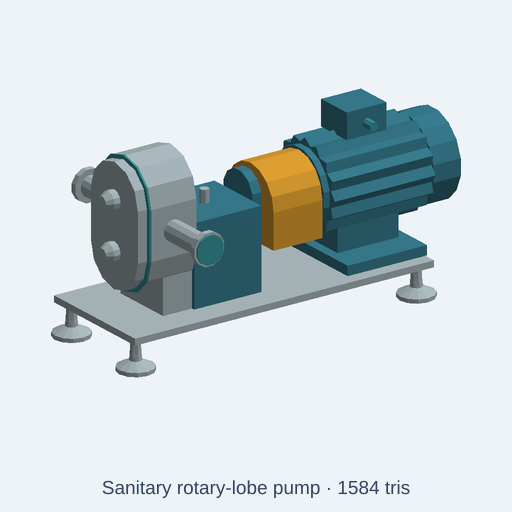
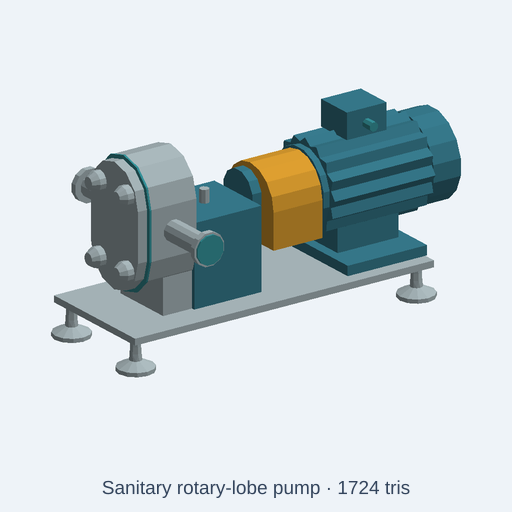
fix(catalog): restore four cover fasteners on sanitary lobe pump

Changed region(s): [[0.1562, 0.4688, 0.2812, 0.5625], [0.1562, 0.3125, 0.2812, 0.4062], [0.6875, 0.9375, 0.7188, 0.9688]]

diff --git a/tests/integration/catalog/sanitaryLobePumpFidelity.test.ts b/tests/integration/catalog/sanitaryLobePumpFidelity.test.ts
@@ -1,0 +1,71 @@
+// SPDX-License-Identifier: MIT
+// A low-poly sanitary lobe pump still needs the cover fastener pattern that
+// its source claims. Inspect GLB geometry, not merely the source text or PNG.
+import { beforeAll, describe, expect, it } from 'vitest';
+import { readFileSync } from 'node:fs';
+import { resolve } from 'node:path';
+import { initOcct } from '../../../src/kernel/backends/occt/occtBackend';
+import { buildCatalogAssetWithGlb } from '../../../src/agent/catalog/buildCatalog';
+import { runAndExport } from '../../../src/agent/script-runtime/export';
+
+const root = resolve(import.meta.dirname, '../../..');
+const file = resolve(root, 'catalog/kits/beverage-bottling-line/sanitary-lobe-pump.kcad.ts');
+
+type Node = { name?: string; mesh?: number };
+type Gltf = {
+  nodes: Node[];
+  meshes: { primitives: { attributes: { POSITION: number } }[] }[];
+  accessors: { min?: number[]; max?: number[] }[];
+};
+function positions(glb: Uint8Array | Buffer): Map<string, { min: number[]; max: number[] }> {
+  const b = Buffer.from(glb);
+  expect(b.toString('ascii', 0, 4)).toBe('glTF');
+  const json = JSON.parse(b.subarray(20, 20 + b.readUInt32LE(12)).toString('utf8')) as Gltf;
+  const map = new Map<string, { min: number[]; max: number[] }>();
+  for (const node of json.nodes) {
+    if (!node.name || node.mesh === undefined) continue;
+    const positionAccessor = json.accessors[json.meshes[node.mesh]!.primitives[0]!.attributes.POSITION]!;
+    if (positionAccessor.min && positionAccessor.max) map.set(node.name, { min: positionAccessor.min, max: positionAccessor.max });
+  }
+  return map;
+}
+function assertCoverFasteners(glb: Uint8Array | Buffer, coords: [number, number][]) {
+  const parts = positions(glb);
+  expect(parts.has('front-cover')).toBe(true);
+  const cover = parts.get('front-cover')!;
+  expect(cover.min[0]).toBeCloseTo(-365, 3);
+  expect(cover.max[0]).toBeCloseTo(-330, 3);
+  const capNames = [...parts.keys()].filter(name => /^cap-nut-\d+$/.test(name));
+  expect(capNames).toEqual(['cap-nut-0', 'cap-nut-1', 'cap-nut-2', 'cap-nut-3']);
+  for (const [i, [y, z]] of coords.entries()) {
+    const nut = parts.get(`cap-nut-${i}`)!;
+    expect(nut.max[0]).toBeCloseTo(cover.min[0], 3);
+    expect(nut.min[0]).toBeLessThan(cover.min[0]);
+    expect((nut.min[1] + nut.max[1]) / 2).toBeCloseTo(y, 3);
+    expect((nut.min[2] + nut.max[2]) / 2).toBeCloseTo(z, 3);
+  }
+}
+
+beforeAll(async () => { await initOcct(); });
+
+describe('sanitary rotary-lobe pump scene prop', () => {
+  it('has four actual cap-nut bodies on the visible removable cover', async () => {
+    const { asset, glb } = await buildCatalogAssetWithGlb(root, 'catalog/kits/beverage-bottling-line/sanitary-lobe-pump.kcad.ts');
+    expect(asset.category).toBe('prop');
+    expect(asset.stats.minUpM).toBeCloseTo(0, 6);
+    expect(asset.stats.triangles).toBeLessThanOrEqual(asset.triangleBudget);
+    assertCoverFasteners(glb, [[-65, 250], [65, 250], [-65, 470], [65, 470]]);
+  }, 30000);
+
+  it('keeps all four fasteners on the cover when port orientation changes', async () => {
+    const source = readFileSync(file, 'utf8');
+    const code = source.replace("param('ports', 'horizontal'", "param('ports', 'vertical'");
+    expect(code).not.toBe(source);
+    const exported = await runAndExport({
+      code, fileName: 'sanitary-lobe-pump.kcad.ts', scriptDir: resolve(file, '..'),
+      format: 'glb', options: { format: 'glb', style: 'lowpoly', lowpoly: { maxTriangles: 2000 } },
+    });
+    expect(exported.diagnostics.filter(d => d.severity === 'error')).toEqual([]);
+    assertCoverFasteners(exported.bytes, [[-110, 335], [-110, 465], [110, 335], [110, 465]]);
+  }, 30000);
+});

diff --git a/catalog/kits/beverage-bottling-line/sanitary-lobe-pump.kcad.ts b/catalog/kits/beverage-bottling-line/sanitary-lobe-pump.kcad.ts
@@ -96,8 +96,11 @@ add('pump-pedestal', box(150, 200, zc - 210, true).translate(-200, 0, 110 + (zc 
 add('pump-casing', alongX(oval(120, 150), -330, 150).color(stainlessSteel));
 add('front-cover', alongX(oval(110, 150), -365, 35).color(stainlessSteel));
 add('cover-seal', alongX(oval(122, 150), -335, 6).color(foodPolymer));
-for (const [i, v] of [-75, 75].entries()) {
-  const [y, z] = vertical ? [v, zc] : [0, zc + v];
+// Four separate front-cover fasteners. The pattern turns with the oval casing
+// so both port orientations keep the nuts on the removable cover face.
+const coverFasteners = [[-65, -110], [65, -110], [-65, 110], [65, 110]];
+for (const [i, [shortAxis, longAxis]] of coverFasteners.entries()) {
+  const [y, z] = vertical ? [longAxis, zc + shortAxis] : [shortAxis, zc + longAxis];
   add(`cap-nut-${i}`, turned([[0, 0], [30, 0], [30, 20], [18, 40], [0, 44]]).rotateY(-90).translate(-365, y, z).color(stainlessSteel));
 }
 // Ports either side (horizontal) or top and bottom with the outlet turned out to -Y (vertical).
